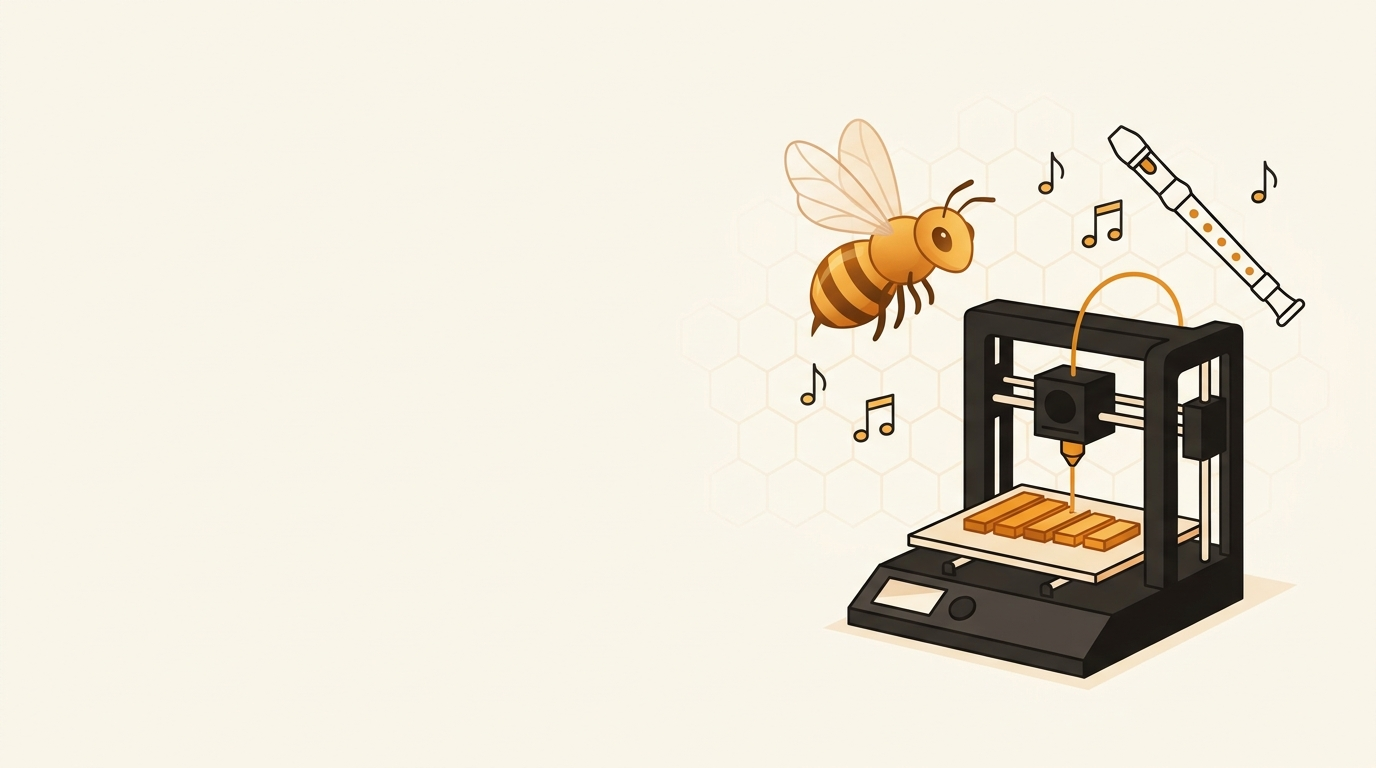
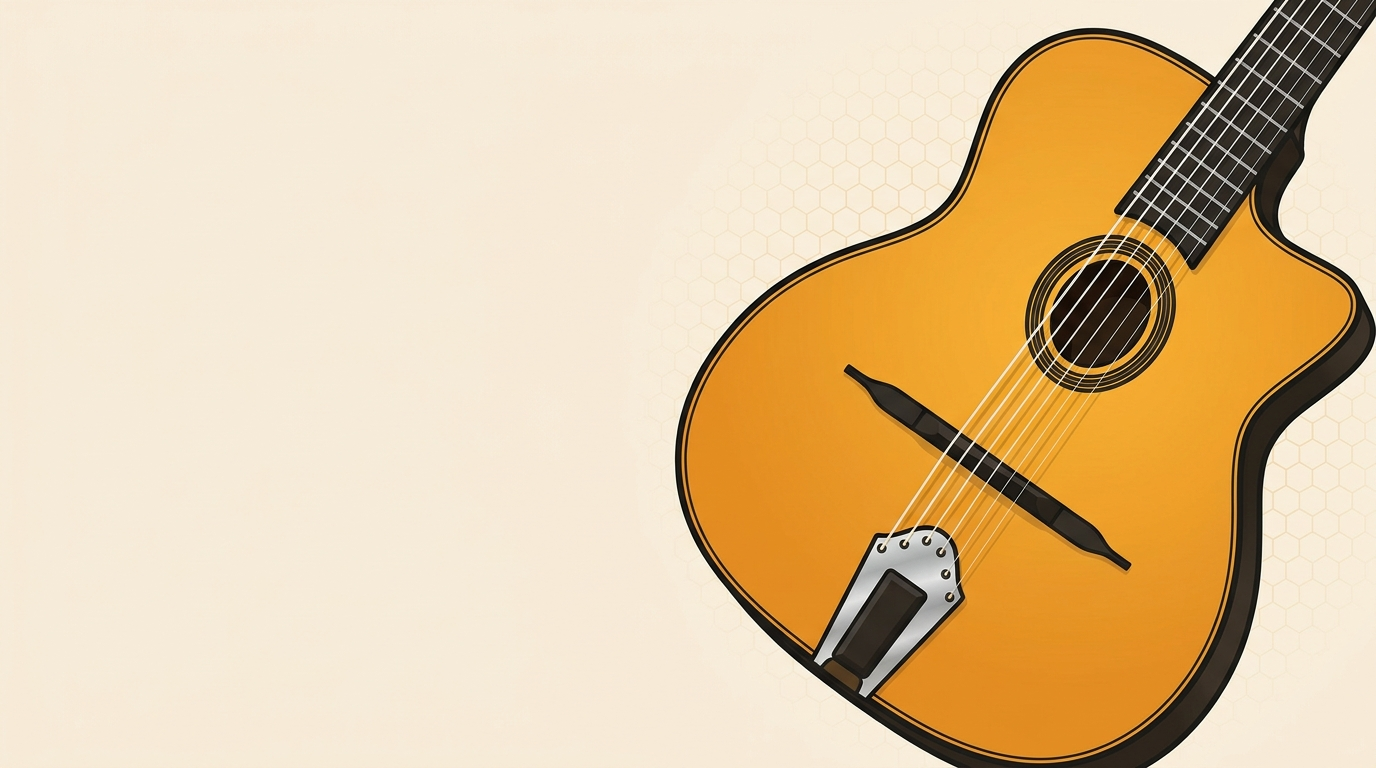
Replace hero illustration with a close-up gypsy jazz guitar
- New Selmer-Maccaferri style guitar illustration (cutaway, moustache
  bridge, tailpiece) in place of the bee/3D printer/recorder scene
- Hero image now pinned right at full height with a faded left edge,
  so the whole picture shows at every width with no visible box edge

diff --git a/static/styles.css b/static/styles.css
@@ -239,7 +239,7 @@ img {
     position: relative;
     overflow: hidden;
     border-bottom: 1px solid var(--line);
-    background-color: #f8f3ea;   /* matches the illustration's background */
+    background-color: #f8ecd9;   /* close to the illustration's background */
 }
 
 .hero-inner {
@@ -308,11 +308,17 @@ img {
     inset: 0;
 }
 
+/* Picture is pinned right at full hero height; its left edge fades into
+   the background so no box edge shows */
 .hero-art img {
-    width: 100%;
+    position: absolute;
+    top: 0;
+    right: 0;
     height: 100%;
-    object-fit: cover;
-    object-position: 70% center;
+    width: auto;
+    max-width: none;
+    -webkit-mask-image: linear-gradient(to right, transparent 0%, #000 45%);
+    mask-image: linear-gradient(to right, transparent 0%, #000 45%);
 }
 
 /* ==========================================================================
@@ -981,13 +987,11 @@ img {
     /* Stack the art under the text, cropped to the illustration */
     .hero-art {
         position: relative;
-        aspect-ratio: 16 / 10;
+        aspect-ratio: 4 / 3;
     }
 
-    .hero-art img {
-        object-position: 88% center;
-        transform: scale(1.5);
-        transform-origin: 82% 55%;
+    .hero-art {
+        overflow: hidden;
     }
 
     .footer-inner {
